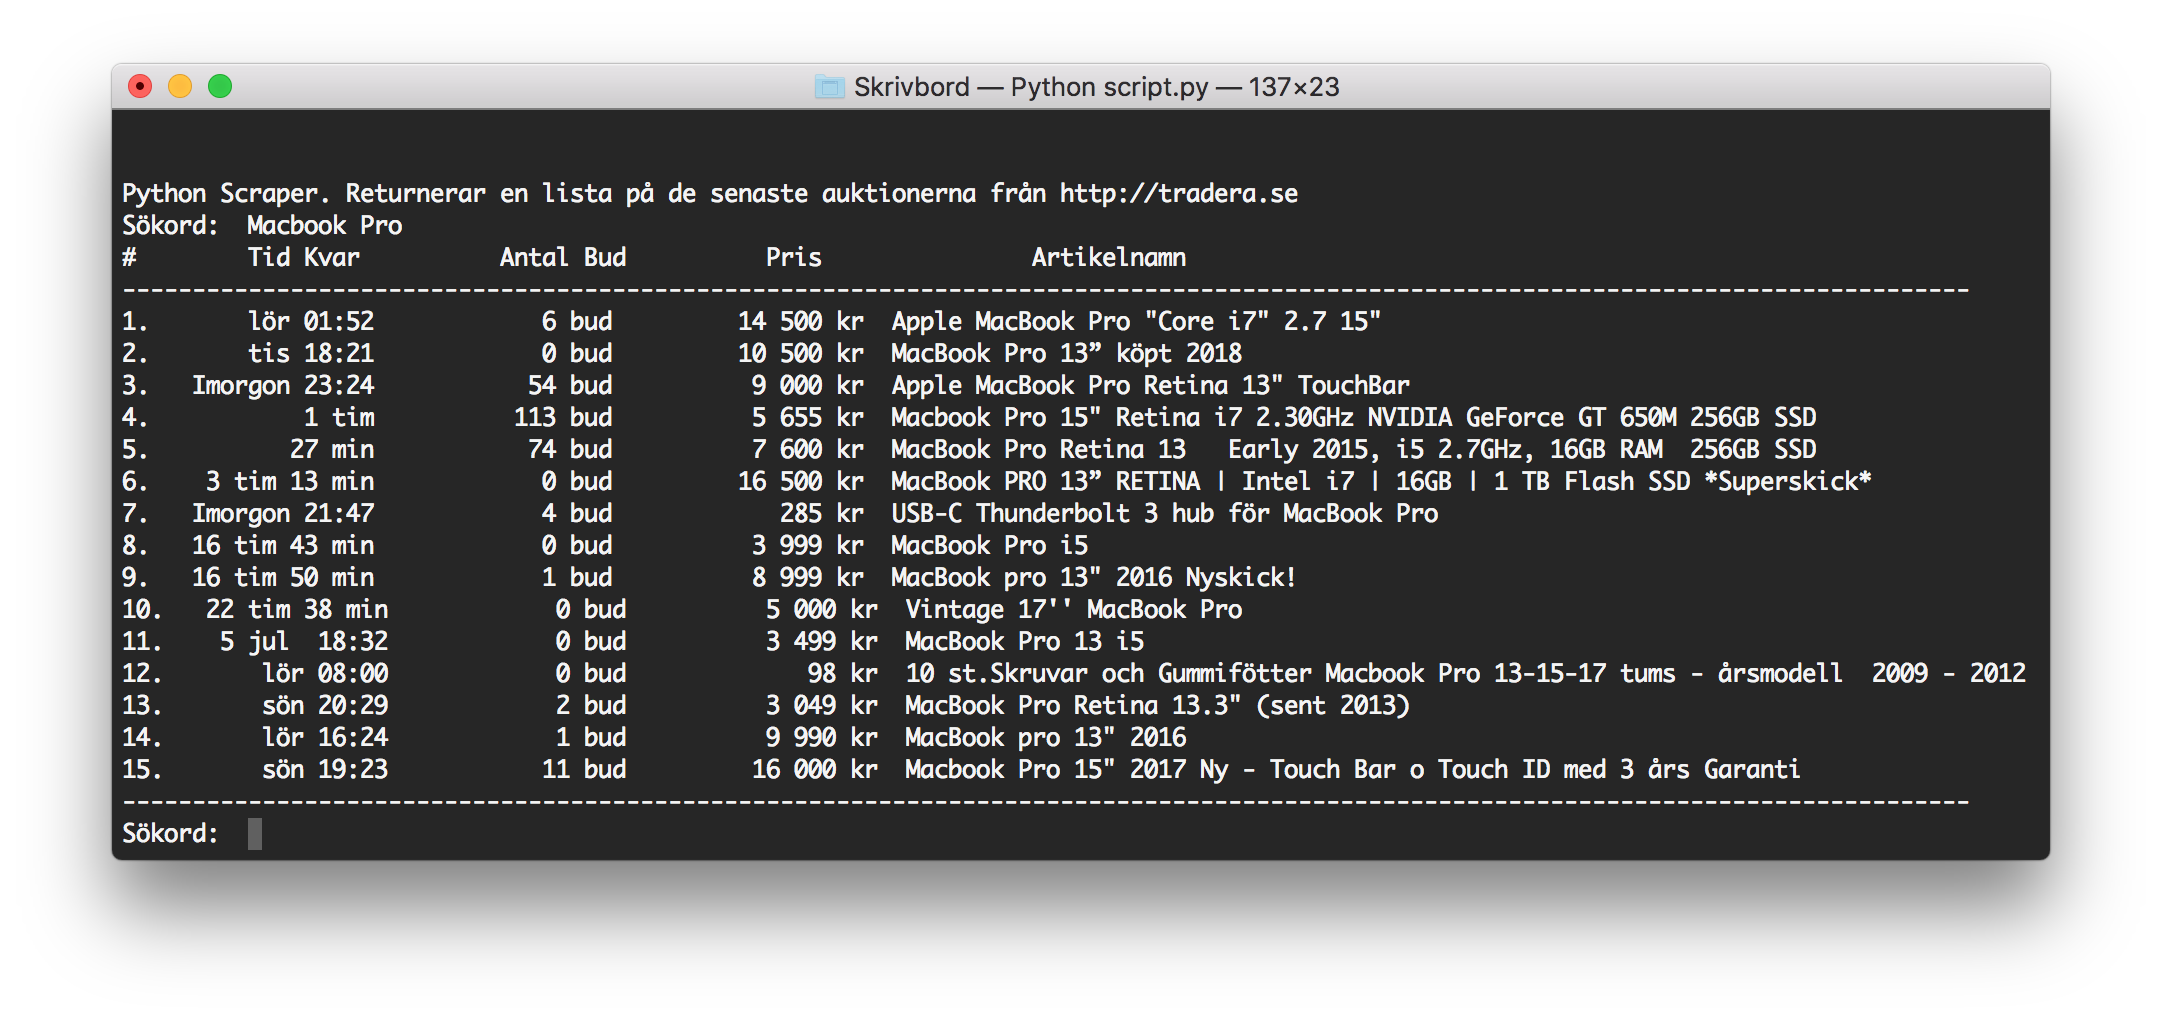
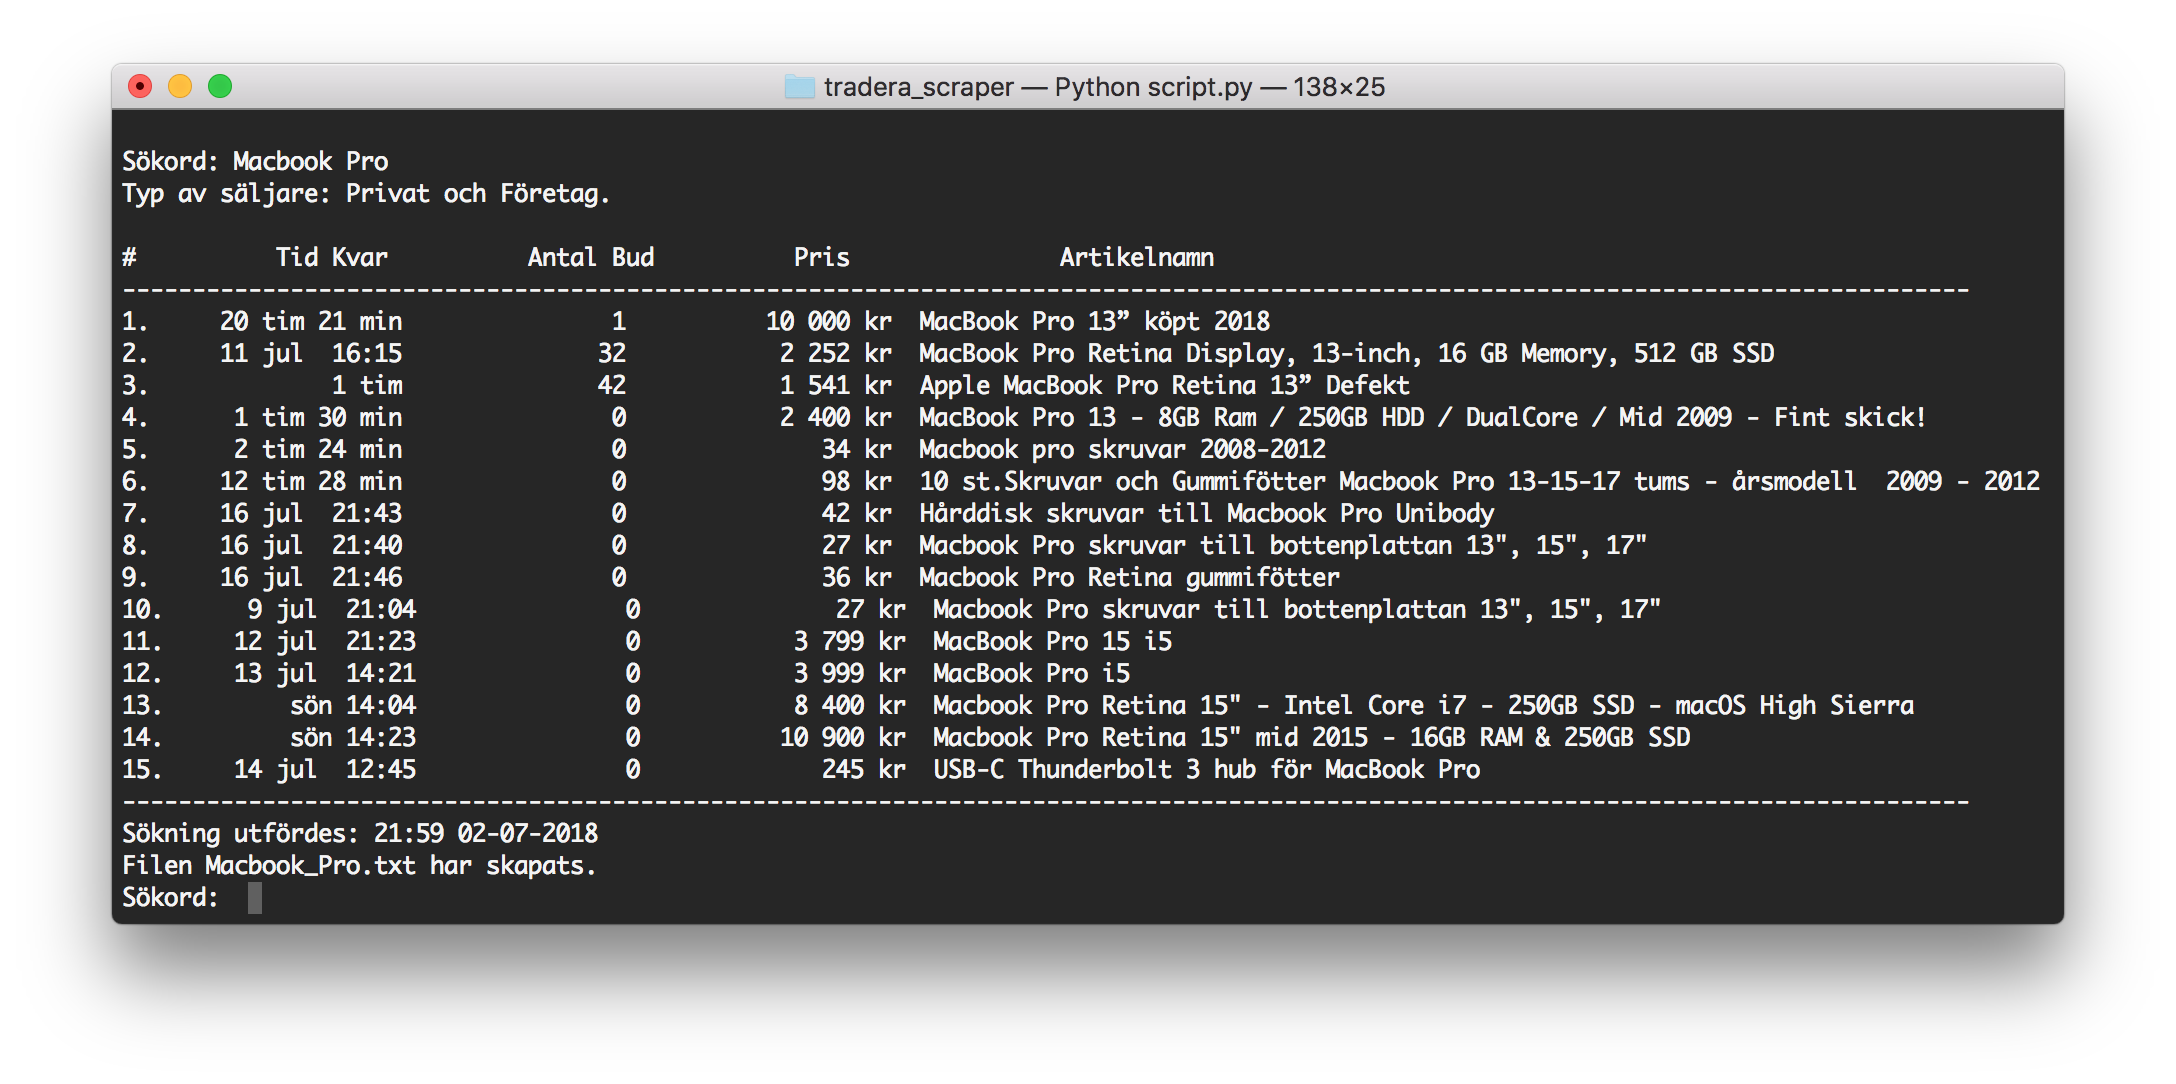
Added the ability to print searches to text files.
However not working properly just yet. Needs some polishing, some querys are being printed in the terminal but not written in the text file.

Changed region(s): [[0.031, 0.0608, 0.9607, 0.851]]

diff --git a/script.py b/script.py
@@ -51,11 +51,19 @@ def main():
         time_box = soup.find('span', attrs={'class': 'item-card-details-time-left'})
         bid_box = card_box = soup.find('span', attrs={'class': 'item-card-details-bids'})
 
+        file = open(searchQuery + ".txt", "w")
         # A lot of printing
-        print('Sökord: ' + searchQuery.replace('%20', ' ') + '. Typ av säljare: ' + seller )
+        print'Sökord: ' + searchQuery.replace('%20',' ')
+        print'Typ av säljare: '  + seller + '.'
+        file.write('Sökord: ' + searchQuery.replace('%20',' \n'))
+        file.write('Typ av säljare: '  + seller + '.\n')
+
         print('')
+        file.write('\n')
         print '%0s  %16s %18s  %12s  %24s' % ('#', 'Tid Kvar', 'Antal Bud', 'Pris', 'Artikelnamn')
+        file.write('%0s  %16s %18s  %12s  %24s' % ('#', 'Tid Kvar', 'Antal Bud', 'Pris', 'Artikelnamn\n'))
         print('------------------------------------------------------------------------------------------------------------------------------------')
+        file.write('------------------------------------------------------------------------------------------------------------------------------------\n')
 
         ######## For loops to get the data we want and save it to arrays. ########
         # Get all the items
@@ -85,13 +93,22 @@ def main():
         #Output everything in a table
         for i in range(0,15):
             try:
-                    line_new = '%0s  %16s %16s  %16s  %5s' % (str(i+1) + '.', times[i], bids[i], prices[i], items[i])
+                    line_new = '%0s  %16s %16s  %16s  %5s' %( repr(i+1).encode('utf-8') + '.', times[i], bids[i], prices[i], items[i])
                     print line_new
+                    file.write(line_new + ' \n')
             except:
                 pass
-        # Funkar 100 % men då visas ej de andra artiklarna ex "21 Jul 12:22"
+
+
+
         print('------------------------------------------------------------------------------------------------------------------------------------')
         print 'Sökning utfördes:' + now.strftime(" %H:%M %d-%m-%Y")
+        print('Filen ' + searchQuery.replace('%20', '_')+ '.txt har skapats.')
+        file.write('------------------------------------------------------------------------------------------------------------------------------------\n')
+        file.write('Sökning utfördes:' + now.strftime(" %H:%M %d-%m-%Y"))
+        file.close()
+
+
         pass
 
 while(True):

diff --git a/README.md b/README.md
@@ -4,6 +4,8 @@
 A tool for scraping information from Tradera.se product pages given a specific search query. 
 The script uses BeautifulSoup 4.4 and Python 2.7 to scrape the data.
 
+Adding on features to collect all the searches in specific text files and then be able to search, sort, compare, etc. 
+
 ## Screenshots
 <p> Search word 'Macbook Pro'.</p>
 <div style="display:block;float:left;">
